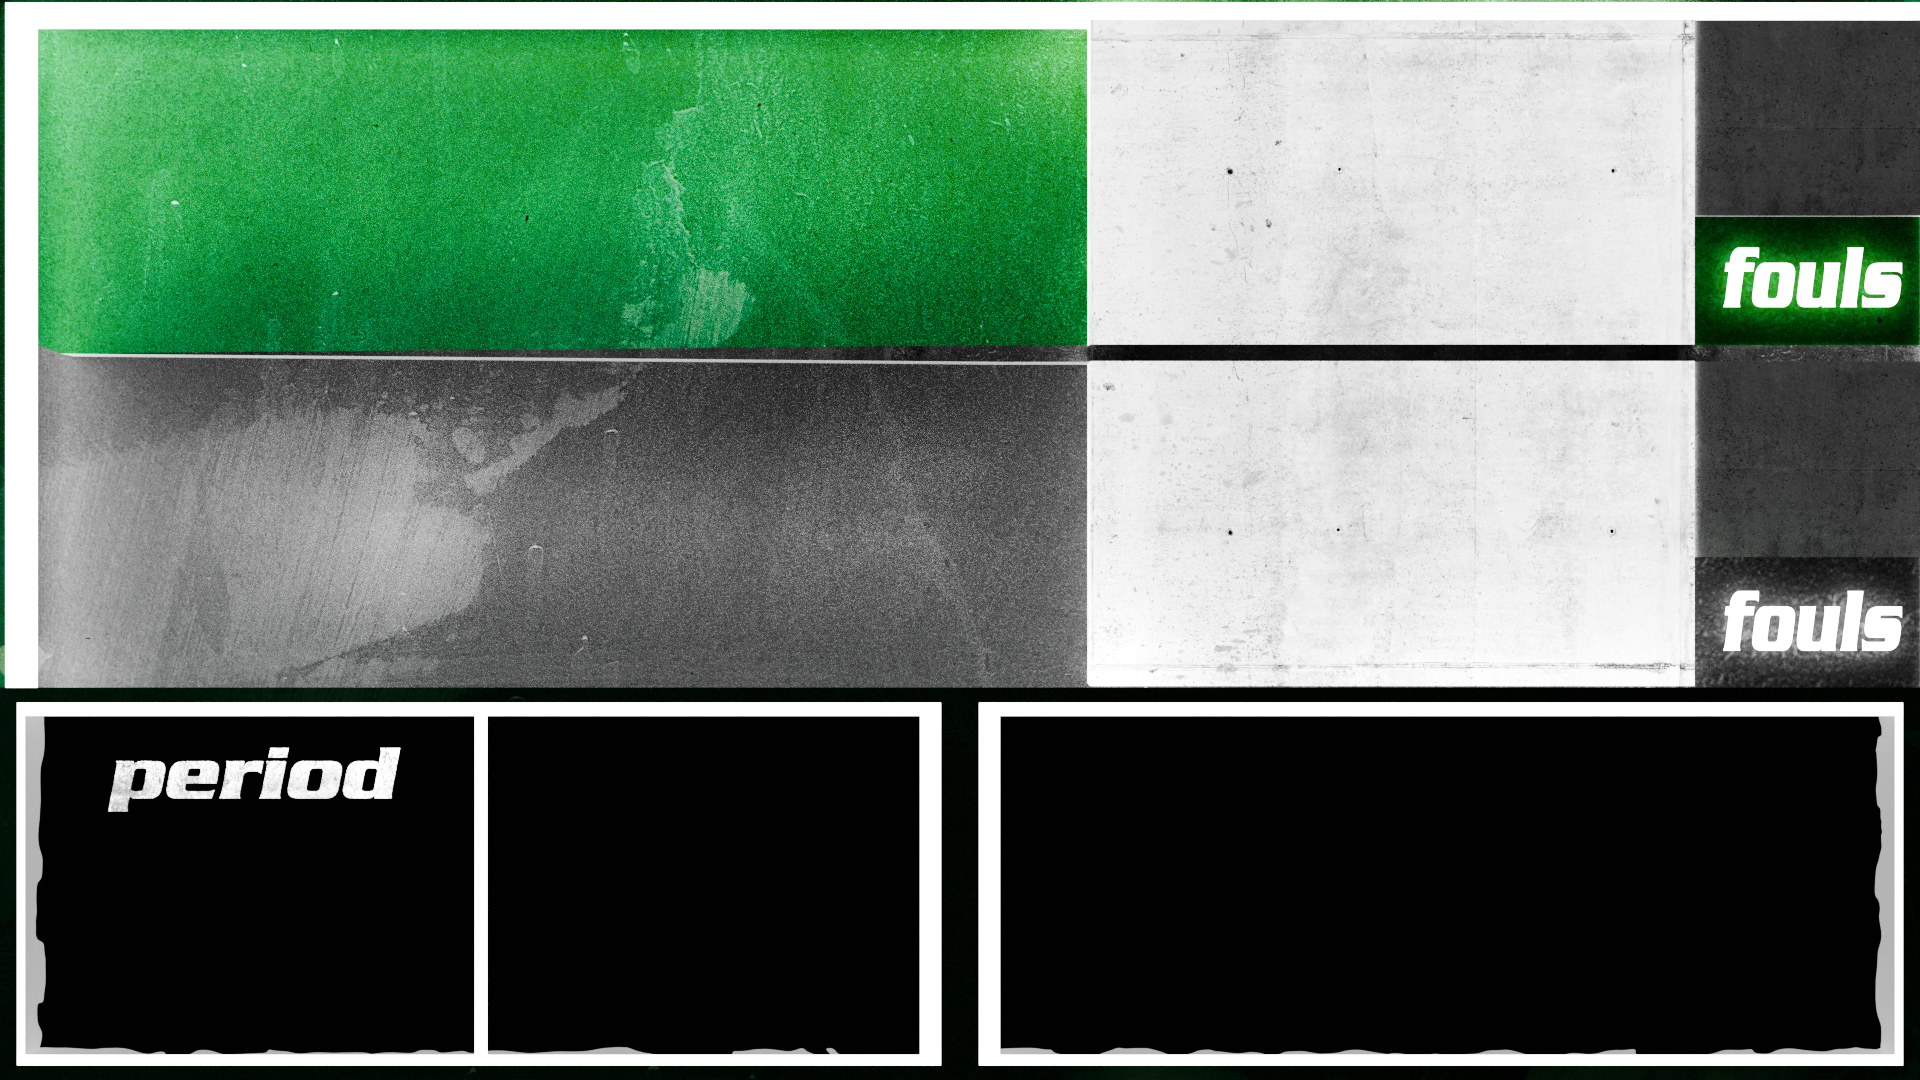
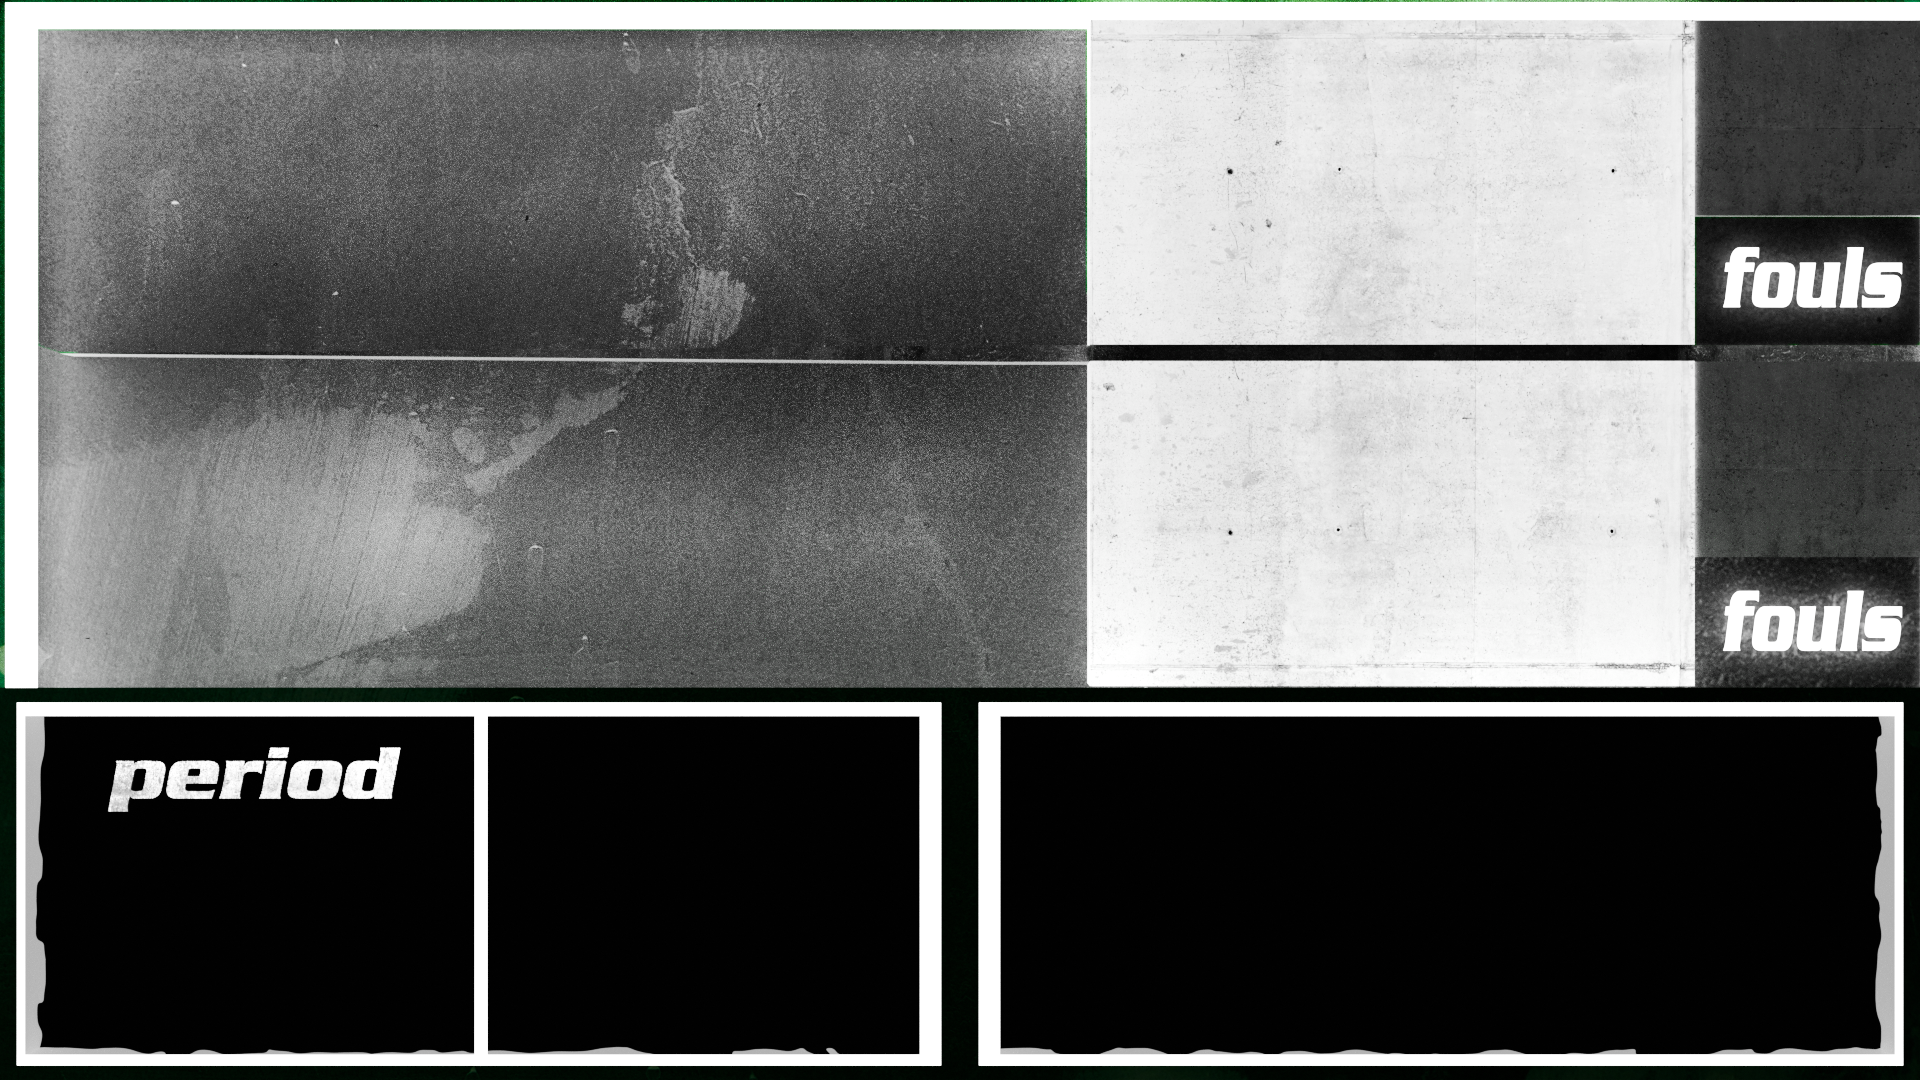
home color customization, improved settings layout, fixed off by one serial input with clock

Changed region(s): [[0.0, 0.0306, 0.5938, 0.3361], [0.875, 0.2139, 1.0, 0.3056]]

diff --git a/main.qml b/main.qml
@@ -38,6 +38,18 @@ Window {
         }
     }
 
+    ColorDialog {
+        id: homeColorDialog
+        title: "Select Home Color"
+        selectedColor: appController.homeColor
+        onAccepted: {
+            var newColor = homeColorDialog.selectedColor;
+            if (newColor) {
+                appController.homeColor = newColor;
+            }
+        }
+    }
+
     FileDialog {
         id: opponentLogoDialog
         title: "Select Opponent Logo"
@@ -183,6 +195,16 @@ Window {
                         height: 324
                         source: appController.opponentLogo
                         fillMode: Image.PreserveAspectFit
+                        opacity: 0.5
+                    }
+
+                    Rectangle {
+                        id: homeColorOverlay
+                        x: 38
+                        y: 30
+                        width: 1048
+                        height: 315
+                        color: appController.homeColor
                         opacity: 0.5
                     }
 
@@ -686,7 +708,13 @@ Window {
                             Switch {
                                 id: manualSwitch
                                 objectName: "manualSwitch"
-                                onToggled: appController.manualMode = checked
+                                onToggled: {
+                                    appController.manualMode = checked;
+                                    if (!checked) {
+                                        // Switched to Automatic
+                                        controlPanel.clockRunning = false;
+                                    }
+                                }
                             }
                             Label {
                                 id: modeText
@@ -712,7 +740,7 @@ Window {
                             }
                             Label {
                                 id: modeLabel
-                                text: modeSwitch.checked ? "Send" : "Receive"
+                                text: modeSwitch.checked ? "Send" : "Listen"
                                 font.pixelSize: 18
                             }
                         }
@@ -1187,41 +1215,60 @@ Window {
                     visible: settingsButton.checked
 
                     Row {
-                        spacing: 8
-                        Label {
-                            text: "Away Color"
-                            font.pixelSize: 18
+                        spacing: 16
+                        Row {
+                            spacing: 8
+                            Label {
+                                text: "Home Color"
+                                font.pixelSize: 18
+                            }
+                            Button {
+                                text: "Select"
+                                onClicked: {
+                                    homeColorDialog.open();
+                                }
+                            }
                         }
-                        Button {
-                            text: "Select"
-                            onClicked: {
-                                colorDialog.open();
+                        Row {
+                            spacing: 8
+                            Label {
+                                text: "Home Logo"
+                                font.pixelSize: 18
+                            }
+                            Button {
+                                text: "Select"
+                                onClicked: {
+                                    homeLogoDialog.open();
+                                }
                             }
                         }
                     }
                     Row {
-                        spacing: 8
-                        Label {
-                            text: "Away Logo"
-                            font.pixelSize: 18
-                        }
-                        Button {
-                            text: "Select"
-                            onClicked: {
-                                opponentLogoDialog.open();
+                        spacing: 16
+                        Row {
+                            spacing: 8
+                            Label {
+                                text: "Away Color"
+                                font.pixelSize: 18
+                            }
+                            Button {
+                                text: "Select"
+                                onClicked: {
+                                    colorDialog.open();
+                                }
                             }
                         }
-                    }
-                    Row {
-                        spacing: 8
-                        Label {
-                            text: "Home Logo"
-                            font.pixelSize: 18
-                        }
-                        Button {
-                            text: "Select"
-                            onClicked: {
-                                homeLogoDialog.open();
+                        Row {
+                            spacing: 8
+                            Label {
+                                text: "Away Logo"
+                                font.pixelSize: 18
+                            }
+                            Button {
+                                text: "Select"
+                                onClicked: {
+                                    opponentLogoDialog.open();
+                                }
                             }
                         }
                     }

diff --git a/everscore.py b/everscore.py
@@ -156,6 +156,17 @@ class AppController(QObject):
 
     # --- Settings Properties ---
 
+    _homeColorChanged = Signal()
+
+    @Property(str, notify=_homeColorChanged)
+    def homeColor(self):
+        return self.settings.value("homeColor", "red")
+
+    @homeColor.setter
+    def homeColor(self, value):
+        self.settings.setValue("homeColor", value)
+        self._homeColorChanged.emit()
+
     _opponentColorChanged = Signal()
 
     @Property(str, notify=_opponentColorChanged)
@@ -616,7 +627,8 @@ def handle_score_update(state: dict, basketballDigits: QQuickItem):
             new_clock_time_in_tenths = (minutes * 60 + seconds) * 10
 
         if is_auto_mode():
-            new_clock_time_in_tenths -= 1
+            if new_clock_time_in_tenths > 0:
+                new_clock_time_in_tenths -= 1
 
         # Ensure clock doesn't go negative
         if new_clock_time_in_tenths < 0:
